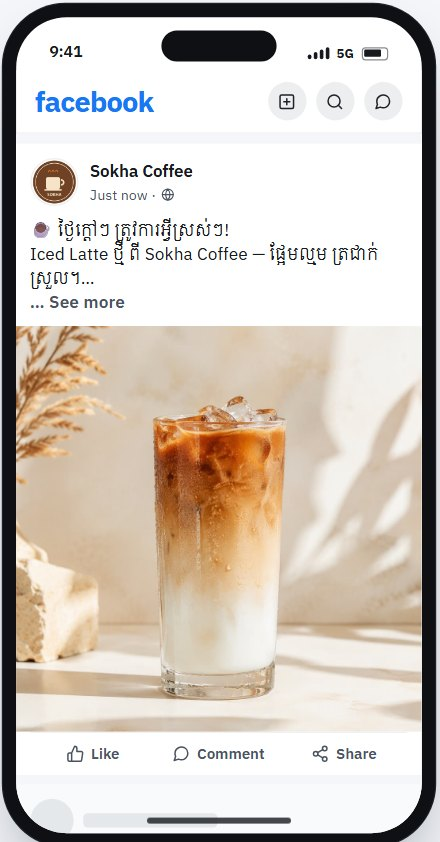
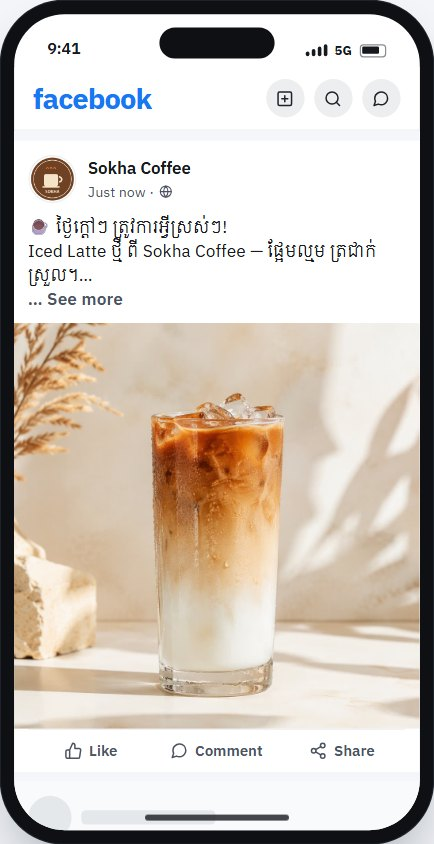
Landing page: two rows of templates sliding opposite ways, the header's width; phones framed in dark mode
The template phones run in two rows — the top right to left, the bottom
left to right, starting halfway through the list — inside a rounded window
lined up with the header bar (max-w-6xl), no fade; hover pauses both. In
dark mode the phone and laptop frames get a light edge (they vanished into
the dark page, leaving the notch floating); the Khmer section's phone is
cut to its frame with matching corners (no white rim).

diff --git a/dispatch/src/pages/LandingPage.jsx b/dispatch/src/pages/LandingPage.jsx
@@ -188,7 +188,7 @@ function Phone({ id, className = '', tilt = 0, label }) {
     <figure className={className || 'relative'}>
       {/* the screen is exactly 9:16 — the clips' own shape, so nothing is cropped — with
           the notch on its own black strip above it, not over the video */}
-      <div className="relative overflow-hidden rounded-[2.2rem] border-[6px] border-night-950 bg-night-950 shadow-[0_30px_80px_-20px_rgba(0,0,0,0.55)]" style={{ transform: `rotate(${tilt}deg)` }}>
+      <div className="relative overflow-hidden rounded-[2.2rem] border-[6px] border-night-950 bg-night-950 shadow-[0_30px_80px_-20px_rgba(0,0,0,0.55)] ring-1 ring-black/5 dark:border-night-800 dark:ring-white/20" style={{ transform: `rotate(${tilt}deg)` }}>
         <div className="flex h-6 items-center justify-center">
           <div className="h-3.5 w-14 rounded-full bg-black" />
         </div>
@@ -223,7 +223,7 @@ function Laptop() {
   const clip = WIDE[n]
   return (
     <div className="mx-auto w-full max-w-5xl">
-      <div className="relative mx-auto w-[92%] rounded-t-[1.4rem] border-[10px] border-b-[14px] border-night-800 bg-night-950 shadow-[0_40px_90px_-30px_rgba(0,0,0,0.7)]">
+      <div className="relative mx-auto w-[92%] rounded-t-[1.4rem] border-[10px] border-b-[14px] border-night-800 bg-night-950 shadow-[0_40px_90px_-30px_rgba(0,0,0,0.7)] dark:ring-1 dark:ring-white/15">
         <div className="absolute left-1/2 top-[-7px] h-1.5 w-1.5 -translate-x-1/2 rounded-full bg-night-950" />
         <div className="relative aspect-video overflow-hidden rounded-md bg-night-950">
           <video
@@ -428,7 +428,7 @@ function PhoneShot({ src, alt, tags = [] }) {
   return (
     <div className="relative flex justify-center px-2 py-6">
       <div className="absolute inset-x-8 inset-y-16 rounded-[40px] bg-brand-soft" />
-      <img src={src} alt={alt} loading="lazy" className="relative w-[min(300px,70vw)] drop-shadow-[0_30px_40px_rgba(15,23,42,0.25)]" />
+      <img src={src} alt={alt} loading="lazy" className="relative w-[min(300px,70vw)] rounded-[40px] drop-shadow-[0_30px_40px_rgba(15,23,42,0.25)]" />
       {tags.map((tag, i) => (
         <FloatTag key={tag.text} {...tag} delay={i * 1.2} />
       ))}
@@ -1723,26 +1723,36 @@ export default function LandingPage({ onLogin, onStart, page = 'home' }) {
             )}
           </p>
         </div>
-        {/* the phones drift past in a loop (the list twice, moved by half), the full width
-            of the screen, edge to edge (no fade — the owner's choice); still on hover and for
-            people who turn motion off */}
+        {/* the phones drift past in a loop (the list twice, moved by half) inside a window the
+            header's width (max-w-6xl), its ends lined up with the header bar's, no fade (the
+            owner's choice); still on hover and for people who turn motion off */}
         <style>{`
           @keyframes lp-drift { from { transform: translateX(0) } to { transform: translateX(-50%) } }
-          .lp-drift { animation: lp-drift 60s linear infinite }
-          .lp-strip:hover .lp-drift { animation-play-state: paused }
-          @media (prefers-reduced-motion: reduce) { .lp-drift { animation: none } }
+          @keyframes lp-drift-back { from { transform: translateX(-50%) } to { transform: translateX(0) } }
+          .lp-drift { animation: lp-drift 70s linear infinite }
+          .lp-drift-back { animation: lp-drift-back 70s linear infinite }
+          .lp-strip:hover .lp-drift, .lp-strip:hover .lp-drift-back { animation-play-state: paused }
+          @media (prefers-reduced-motion: reduce) { .lp-drift, .lp-drift-back { animation: none } }
         `}</style>
-        <div className="lp-strip mt-14 w-full overflow-hidden pb-4">
-          <div className="lp-drift flex w-max">
-            {[0, 1].map((copy) =>
-              SHOWCASE.filter((id) => byId[id]).map((id) => (
-                <div key={`${copy}-${id}`} className="mr-5 w-[170px] flex-none sm:mr-7 sm:w-[210px]" aria-hidden={copy === 1 || undefined}>
-                  <Phone id={id} />
-                  <div className="mt-3 text-center text-[13px] font-semibold text-ink-700">{byId[id].name}</div>
-                </div>
-              )),
-            )}
-          </div>
+        {/* two rows going opposite ways: the top one right to left, the bottom one left to
+            right — the same templates, the bottom row starting halfway through the list */}
+        <div className="lp-strip mx-auto mt-14 max-w-6xl space-y-6 overflow-hidden rounded-[28px] pb-4 pt-2">
+          {[0, 1].map((row) => {
+            const ids = SHOWCASE.filter((id) => byId[id])
+            const order = row ? [...ids.slice(Math.ceil(ids.length / 2)), ...ids.slice(0, Math.ceil(ids.length / 2))] : ids
+            return (
+              <div key={row} className={`${row ? 'lp-drift-back' : 'lp-drift'} flex w-max`}>
+                {[0, 1].map((copy) =>
+                  order.map((id) => (
+                    <div key={`${copy}-${id}`} className="mr-4 w-[130px] flex-none sm:mr-6 sm:w-[160px]" aria-hidden={row === 1 || copy === 1 || undefined}>
+                      <Phone id={id} />
+                      <div className="mt-2.5 text-center text-[12.5px] font-semibold text-ink-700">{byId[id].name}</div>
+                    </div>
+                  )),
+                )}
+              </div>
+            )
+          })}
         </div>
         <LockedTemplates onStart={onStart} />
       </section>
